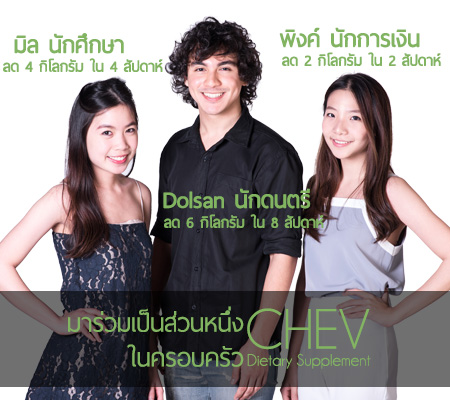
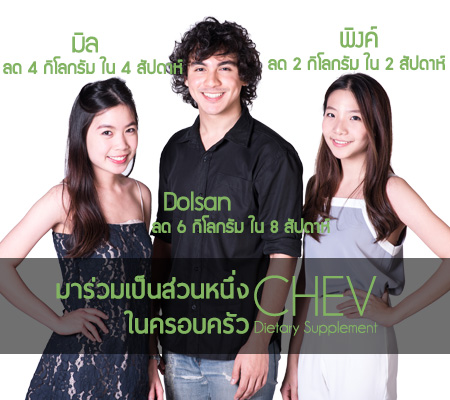
Add success story

diff --git a/public/pages/successStory.html b/public/pages/successStory.html
@@ -21,10 +21,11 @@
           <img class="cir-img" style="width: 100%;" src="public/img/ZCH_0194.jpg" alt="Cat">
         </div>
 
-        <h2>Text</h2>
+        <h2>มิล</h2>
         <hr>
         <span>
-          คุณสามารถเปลี่ยนแปลงตัวเองได้มากว่าคุณคิด เป็นตัวคุณที่ดีที่สุดในแบบที่คุณเป็น คุณพร้อมหรือยังที่จะเข้ามาเป็นส่วนหนึ่งแห่งความสำเร็จไปกับพวกเรา
+          กลับจากอังกฤษอ้วนขึ้น 3 โล แต่พอได้รู้จักกับ CHEV บอกได้เลยสัดส่วนกระชับขึ้น น้ำหนักลง รุ้สึกมั่นใจขึ้นเยอะเลยค่ะ <br>
+          <big><b>มิว ลด 4 กิโลกรัม ใน 4 สัปดาห์</b></big>
         </span>
       </div>
       <div class="col-sm-4">
@@ -32,10 +33,11 @@
           <img class="cir-img" style="width: 100%;" src="public/img/ZCH_0239.jpg" alt="Cat">
         </div>
 
-        <h2>Text</h2>
+        <h2>Dolsan</h2>
         <hr>
         <span>
-          คุณสามารถเปลี่ยนแปลงตัวเองได้มากว่าคุณคิด เป็นตัวคุณที่ดีที่สุดในแบบที่คุณเป็น คุณพร้อมหรือยังที่จะเข้ามาเป็นส่วนหนึ่งแห่งความสำเร็จไปกับพวกเรา
+          เมื่อก่อนนี้จะกินบุฟเฟ่ทีนี่คิดหนักเลยครับ แต่ตอนนี้ผมมี CHEV เป็นเหมือนเพื่อนที่รู้ใจ จะกินบุฟเฟ่ทีไรสบายใจมากครับ<br>
+          <big><b>Dolsan ลด 6 กิโลกรัม ใน 8 สัปดาห์</b></big>
         </span>
       </div>
       <div class="col-sm-4">
@@ -43,10 +45,11 @@
           <img class="cir-img" style="width: 100%;" src="public/img/ZCH_0315.jpg" alt="Cat">
         </div>
 
-        <h2>Text</h2>
+        <h2>พิ้ง</h2>
         <hr>
         <span>
-          คุณสามารถเปลี่ยนแปลงตัวเองได้มากว่าคุณคิด เป็นตัวคุณที่ดีที่สุดในแบบที่คุณเป็น คุณพร้อมหรือยังที่จะเข้ามาเป็นส่วนหนึ่งแห่งความสำเร็จไปกับพวกเรา
+          มีเพื่อนแนะนำก็เลยลองรับประทาน CHEV ดูค่ะ ไม่นานก็มีคนทักว่าหุ่นดีขึ้น ผอมลง รู้สึกเหมือนเป็นคนใหม่เลยค่ะ<br>
+          <big><b>พิ้ง ลด 2 กิโลกรัม ใน 2 สัปดาห์</b></big>
         </span>
       </div>
     </div>
@@ -55,36 +58,67 @@
     <div class="row bottom-space">
       <div class="col-sm-4">
         <div class="border-padding">
-          <img class="cir-img" style="width: 100%;" src="public/img/100percent.jpg" alt="Cat">
+          <img class="cir-img" style="width: 100%;" src="public/img/4Nid.jpg" alt="Cat">
         </div>
 
-        <h2>Text</h2>
+        <h2>นิช</h2>
         <hr>
         <span>
-          คุณสามารถเปลี่ยนแปลงตัวเองได้มากว่าคุณคิด เป็นตัวคุณที่ดีที่สุดในแบบที่คุณเป็น คุณพร้อมหรือยังที่จะเข้ามาเป็นส่วนหนึ่งแห่งความสำเร็จไปกับพวกเรา
+          ก่อนหน้านี้ขี้เกียดออกกำลังกายมากค่ะ แต่พอมาใช้ work out program ของ CHEV คู่กับผลิตภัณฑ์ ขอบอกเลยว่า “การลดน้ำหนักไม่ยากอย่างที่คิดค่ะ” <br>
+          <big><b>นิช ลด 3 กิโลกรัม ใน 2 สัปดาห์</b></big>
         </span>
       </div>
       <div class="col-sm-4">
         <div class="border-padding">
-          <img class="cir-img" style="width: 100%;" src="public/img/100percent.jpg" alt="Cat">
+          <img class="cir-img" style="width: 100%;" src="public/img/5Nun.jpg" alt="Cat">
         </div>
 
-        <h2>Text</h2>
+        <h2>นัน</h2>
         <hr>
         <span>
-          คุณสามารถเปลี่ยนแปลงตัวเองได้มากว่าคุณคิด เป็นตัวคุณที่ดีที่สุดในแบบที่คุณเป็น คุณพร้อมหรือยังที่จะเข้ามาเป็นส่วนหนึ่งแห่งความสำเร็จไปกับพวกเรา
+          ปกติเป็นคนชอบกินพิซซ่ามากๆ แต่ก็กลัวอ้วน แต่พอมี CHEV กินพิซซ่าได้อย่างสบายใจเลยค่ะ แถมน้ำหนักก็ยังลดอีกด้วย <br>
+          <big><b>นัน ลด 4 กิโลกรัม ใน 5 สัปดาห์ </b></big>
         </span>
       </div>
       <div class="col-sm-4">
         <div class="border-padding">
-          <img class="cir-img" style="width: 100%;" src="public/img/100percent.jpg" alt="Cat">
+          <img class="cir-img" style="width: 100%;" src="public/img/6Win.jpg" alt="Cat">
         </div>
 
-        <h2>Text</h2>
+        <h2>วิน</h2>
         <hr>
         <span>
-          คุณสามารถเปลี่ยนแปลงตัวเองได้มากว่าคุณคิด เป็นตัวคุณที่ดีที่สุดในแบบที่คุณเป็น คุณพร้อมหรือยังที่จะเข้ามาเป็นส่วนหนึ่งแห่งความสำเร็จไปกับพวกเรา
+          ชอบสังสรรค์กับเพื่อนครับ แต่ตื่นเช้ามาน้ำหนักขึ้นทุกที พอมี CHEV สามารถ party hard นอนดึกกินดึก ได้แบบหายห่วงเลยครับ <br>    
+          <big><b>วิน ลด 2 กิโลกรัม ใน 2 สัปดาห์ </b></big>
         </span>
+      </div>
+    </div>
+
+    <!-- New Row -->
+    <div class="row">
+      <div class="col-sm-3">
+        <div class="border-padding">
+          <img class="cir-img" style="width: 100%;" src="public/img/7Beam.jpg" alt="Cat">
+        </div>
+        <br><big><b>บีม ลด 4 กิโลกรัม ใน 5 สัปดาห์</b></big>
+      </div>
+      <div class="col-sm-3">
+        <div class="border-padding">
+          <img class="cir-img" style="width: 100%;" src="public/img/8Ben.jpg" alt="Cat">
+        </div>
+        <br><big><b>เบน ลด 2 กิโลกรัม ใน 2 สัปดาห์</b></big>        
+      </div>
+      <div class="col-sm-3">
+        <div class="border-padding">
+          <img class="cir-img" style="width: 100%;" src="public/img/9Yves.jpg" alt="Cat">
+        </div>
+        <br><big><b>อีฟ ลด 3 กิโลกรัม ใน 3 สัปดาห์</b></big> 
+      </div>
+      <div class="col-sm-3">
+        <div class="border-padding">
+          <img class="cir-img" style="width: 100%;" src="public/img/10Lens.jpg" alt="Cat">
+        </div>
+        <br><big><b>เลนส์ ลด 3 กิโลกรัม ใน 2 สัปดาห์</b></big>         
       </div>
     </div>
 
@@ -92,55 +126,27 @@
     <div class="row bottom-space">
       <div class="col-sm-3">
         <div class="border-padding">
-          <img class="cir-img" style="width: 100%;" src="public/img/100percent.jpg" alt="Cat">
+          <img class="cir-img" style="width: 100%;" src="public/img/11Bank.jpg" alt="Cat">
         </div>
-
+        <br><big><b>แบ้ง  ลด 2 กิโลกรัม ใน 2 สัปดาห์</b></big>                 
       </div>
       <div class="col-sm-3">
         <div class="border-padding">
-          <img class="cir-img" style="width: 100%;" src="public/img/100percent.jpg" alt="Cat">
+          <img class="cir-img" style="width: 100%;" src="public/img/12Champ.jpg" alt="Cat">
         </div>
-
+        <br><big><b>แชมป์ ลด 4 กิโลกรัม ใน 4 สัปดาห์</b></big>     
       </div>
       <div class="col-sm-3">
         <div class="border-padding">
-          <img class="cir-img" style="width: 100%;" src="public/img/100percent.jpg" alt="Cat">
+          <img class="cir-img" style="width: 100%;" src="public/img/13Bek.jpg" alt="Cat">
         </div>
-
+        <br><big><b>เบค ลด 3 กิโลกรัม ใน 4 สัปดาห์</b></big> 
       </div>
       <div class="col-sm-3">
         <div class="border-padding">
-          <img class="cir-img" style="width: 100%;" src="public/img/100percent.jpg" alt="Cat">
+          <img class="cir-img" style="width: 100%;" src="public/img/14Mint.jpg" alt="Cat">
         </div>
-
-      </div>
-    </div>
-
-    <!-- New Row -->
-    <div class="row bottom-space">
-      <div class="col-sm-3">
-        <div class="border-padding">
-          <img class="cir-img" style="width: 100%;" src="public/img/15days.jpg" alt="Cat">
-        </div>
-
-      </div>
-      <div class="col-sm-3">
-        <div class="border-padding">
-          <img class="cir-img" style="width: 100%;" src="public/img/15days.jpg" alt="Cat">
-        </div>
-
-      </div>
-      <div class="col-sm-3">
-        <div class="border-padding">
-          <img class="cir-img" style="width: 100%;" src="public/img/15days.jpg" alt="Cat">
-        </div>
-
-      </div>
-      <div class="col-sm-3">
-        <div class="border-padding">
-          <img class="cir-img" style="width: 100%;" src="public/img/15days.jpg" alt="Cat">
-        </div>
-
+        <br><big><b>มิ้น  ลด 4 กิโลกรัม ใน 5 สัปดาห์</b></big> 
       </div>
     </div>
 

diff --git a/public/js/app.js b/public/js/app.js
@@ -266,6 +266,9 @@ chevApp.controller('homeController', function($scope, $rootScope){
 
 	$scope.slides = [
 	    {
+	      image: 'public/img/banner_test.jpg'
+	    },
+	    {
 	      image: 'public/img/ban1.jpg'
 	    },
 	    {
@@ -273,13 +276,13 @@ chevApp.controller('homeController', function($scope, $rootScope){
 	    },
 	    {
 	      image: 'public/img/ban3.jpg'
-	    },
-	    {
-	      image: 'public/img/banner_test.jpg'
 	    }
 	 ];
 
 	 $scope.slides1 = [
+	    {
+	      image: 'public/img/mobile_testBanner.jpg'
+	    },
 	    {
 	      image: 'public/img/NEW_BANNER1_MOBILE.jpg'
 	    },
@@ -288,9 +291,6 @@ chevApp.controller('homeController', function($scope, $rootScope){
 	    },
 	    {
 	      image: 'public/img/NEW_BANNER3_MOBILE.jpg'
-	    },
-	    {
-	      image: 'public/img/mobile_testBanner.jpg'
 	    }
 	 ];
 
